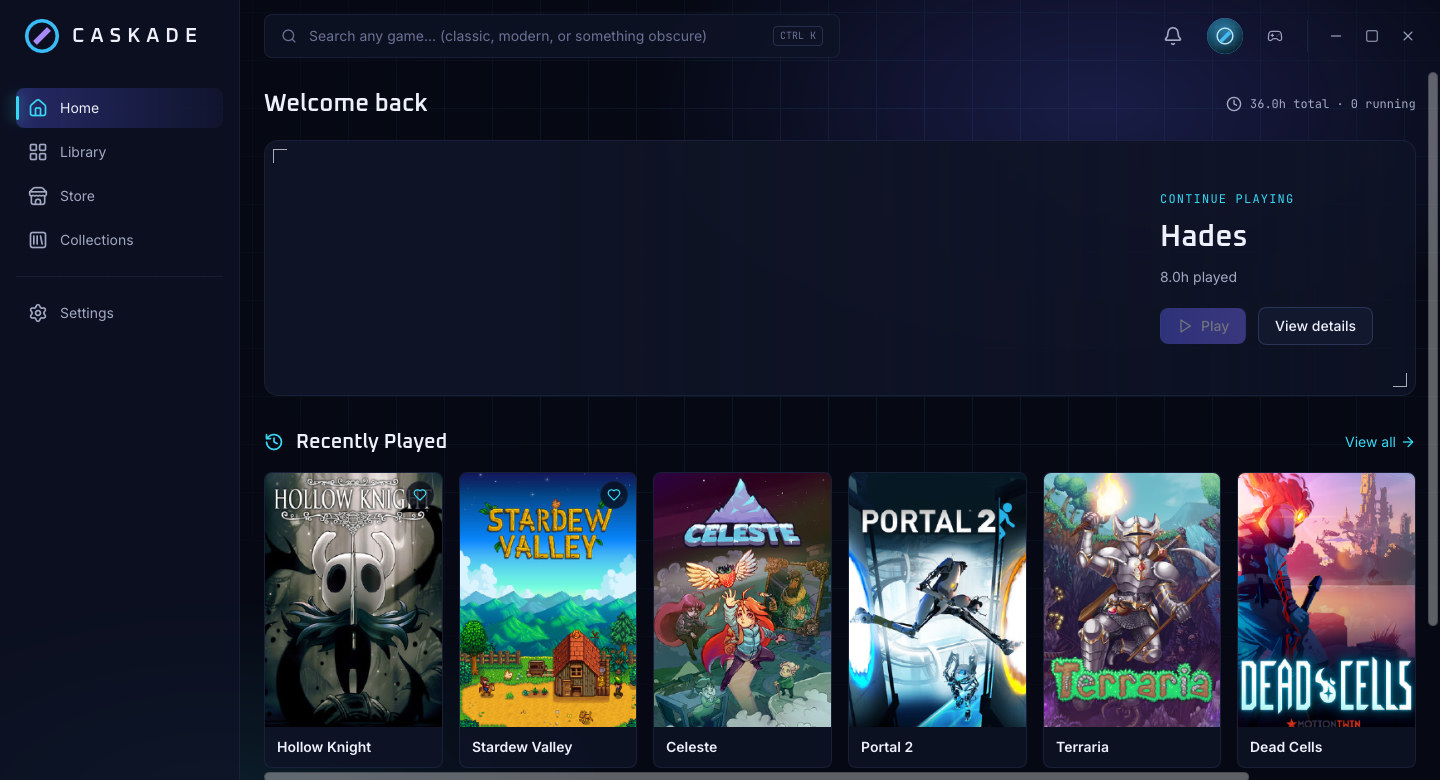
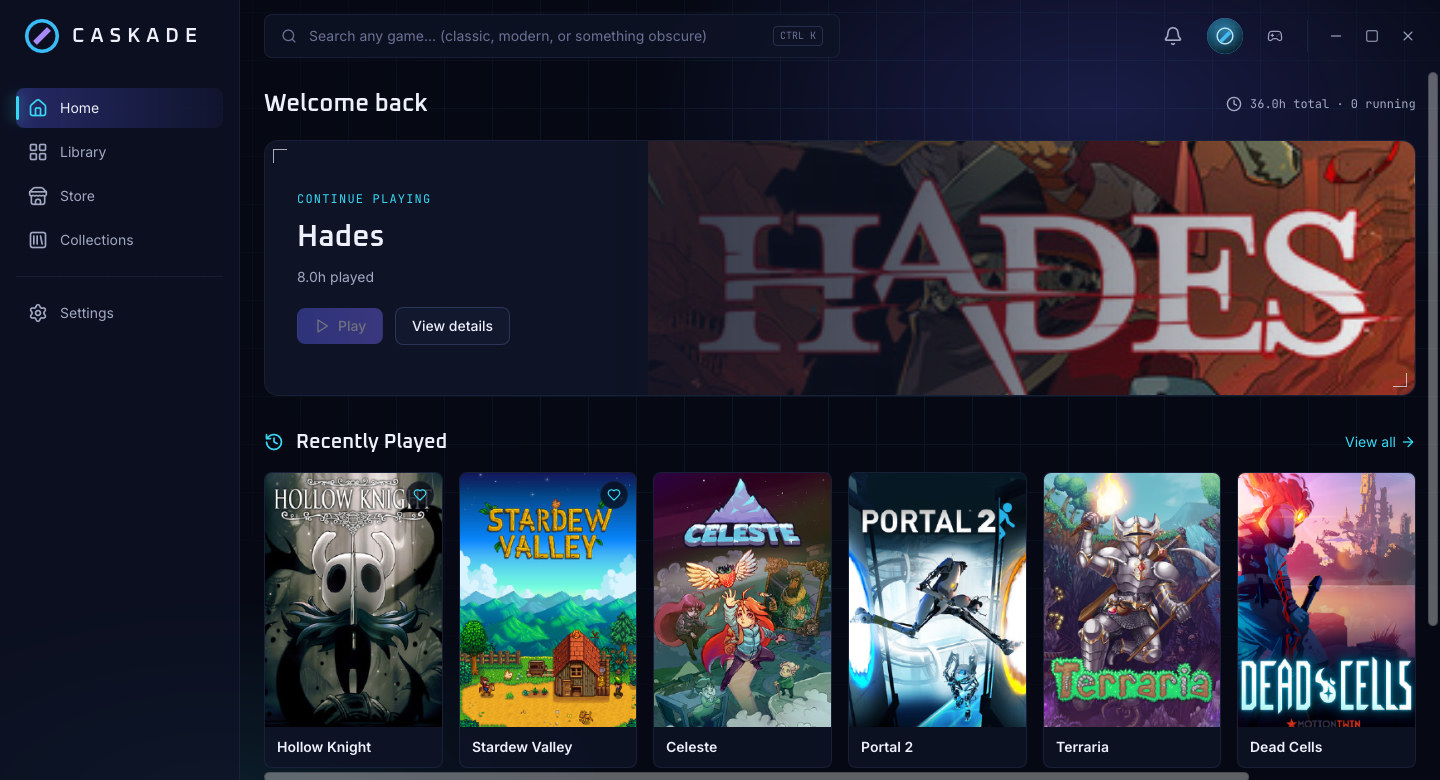
fix(native): fix Home hero art positioning, deterministic About shots, and Biome formatting (#174, #176, #178, #179)

Changed region(s): [[0.4375, 0.1538, 1.0, 0.5231], [0.1875, 0.2462, 0.3438, 0.4615], [0.4375, 0.4, 0.4688, 0.4308]]

diff --git a/apps/native/assets/app.css b/apps/native/assets/app.css
@@ -802,11 +802,11 @@
   .w-1\/3 {
     width: calc(1 / 3 * 100%);
   }
+  .w-2\/3 {
+    width: calc(2 / 3 * 100%);
+  }
   .w-2\/5 {
     width: calc(2 / 5 * 100%);
-  }
-  .w-3\/4 {
-    width: calc(3 / 4 * 100%);
   }
   .w-4 {
     width: calc(calc(0.25rem * var(--cs-density-scale)) * 4);
@@ -1773,6 +1773,9 @@
   .from-25\% {
     --tw-gradient-from-position: 25%;
   }
+  .from-30\% {
+    --tw-gradient-from-position: 30%;
+  }
   .via-accent-alt {
     --tw-gradient-via: var(--cs-color-accent-alt);
     --tw-gradient-via-stops: var(--tw-gradient-position), var(--tw-gradient-from) var(--tw-gradient-from-position), var(--tw-gradient-via) var(--tw-gradient-via-position), var(--tw-gradient-to) var(--tw-gradient-to-position);
@@ -1791,8 +1794,8 @@
     --tw-gradient-via-stops: var(--tw-gradient-position), var(--tw-gradient-from) var(--tw-gradient-from-position), var(--tw-gradient-via) var(--tw-gradient-via-position), var(--tw-gradient-to) var(--tw-gradient-to-position);
     --tw-gradient-stops: var(--tw-gradient-via-stops);
   }
-  .via-50\% {
-    --tw-gradient-via-position: 50%;
+  .via-55\% {
+    --tw-gradient-via-position: 55%;
   }
   .to-accent-alt {
     --tw-gradient-to: var(--cs-color-accent-alt);

diff --git a/apps/native/src/shots/shots.css b/apps/native/src/shots/shots.css
@@ -811,11 +811,11 @@
   .w-1\/3 {
     width: calc(1 / 3 * 100%);
   }
+  .w-2\/3 {
+    width: calc(2 / 3 * 100%);
+  }
   .w-2\/5 {
     width: calc(2 / 5 * 100%);
-  }
-  .w-3\/4 {
-    width: calc(3 / 4 * 100%);
   }
   .w-4 {
     width: calc(calc(0.25rem * var(--cs-density-scale)) * 4);
@@ -1794,6 +1794,9 @@
   .from-25\% {
     --tw-gradient-from-position: 25%;
   }
+  .from-30\% {
+    --tw-gradient-from-position: 30%;
+  }
   .via-accent-alt {
     --tw-gradient-via: var(--cs-color-accent-alt);
     --tw-gradient-via-stops: var(--tw-gradient-position), var(--tw-gradient-from) var(--tw-gradient-from-position), var(--tw-gradient-via) var(--tw-gradient-via-position), var(--tw-gradient-to) var(--tw-gradient-to-position);
@@ -1812,8 +1815,8 @@
     --tw-gradient-via-stops: var(--tw-gradient-position), var(--tw-gradient-from) var(--tw-gradient-from-position), var(--tw-gradient-via) var(--tw-gradient-via-position), var(--tw-gradient-to) var(--tw-gradient-to-position);
     --tw-gradient-stops: var(--tw-gradient-via-stops);
   }
-  .via-50\% {
-    --tw-gradient-via-position: 50%;
+  .via-55\% {
+    --tw-gradient-via-position: 55%;
   }
   .to-accent-alt {
     --tw-gradient-to: var(--cs-color-accent-alt);

diff --git a/apps/native/src/home/mod.rs b/apps/native/src/home/mod.rs
@@ -358,11 +358,15 @@ fn ContinueHero(game: GameSummary) -> Element {
                     }
                 }
             },
-            GameArt { part: "art", image: hero_art, class: "absolute inset-y-0 right-0 w-3/4" }
+            div {
+                "aria-hidden": "true",
+                class: "pointer-events-none absolute inset-y-0 right-0 w-2/3 overflow-hidden",
+                GameArt { part: "art", image: hero_art, class: "size-full" }
+            }
             div {
                 "data-part": "shade",
                 "aria-hidden": "true",
-                class: "pointer-events-none absolute inset-0 bg-linear-to-r from-surface-raised from-25% via-surface-raised/85 via-50% to-transparent",
+                class: "pointer-events-none absolute inset-0 bg-linear-to-r from-surface-raised from-30% via-surface-raised/85 via-55% to-transparent",
             }
             div { "data-part": "content", class: "relative z-10 flex max-w-2xl flex-col justify-center p-8",
                 p { "data-part": "eyebrow", class: "font-mono text-xs tracking-widest text-accent-alt uppercase",

diff --git a/apps/native/src/settings/about.rs b/apps/native/src/settings/about.rs
@@ -165,7 +165,12 @@ fn build_label() -> String {
 }
 
 /// The short git commit SHA embedded by `build.rs`, when available.
+/// Headless reference screenshots (`--shots`) use a fixed placeholder so
+/// committed golden PNGs don't churn on every commit.
 fn git_sha() -> Option<&'static str> {
+    if std::env::args().any(|arg| arg == "--shots") {
+        return Some("00000000");
+    }
     option_env!("CASKADE_GIT_SHA").filter(|sha| !sha.is_empty())
 }
 
@@ -220,6 +225,11 @@ fn AboutPage() -> Element {
         })
         .unwrap_or(false);
     let (renderer, adapter) = crate::shell::renderer_info(cpu_paint);
+    let adapter = if std::env::args().any(|arg| arg == "--shots") {
+        None
+    } else {
+        adapter
+    };
     let diagnostics = use_diagnostics();
     let toasts = try_use_context::<Toasts>();
     let mut opening_logs = use_signal(|| false);

diff --git a/CONTRIBUTING.md b/CONTRIBUTING.md
@@ -44,19 +44,19 @@ pnpm install
 
 See [AGENTS.md](AGENTS.md) and [`justfile`](justfile) for the full list of commands. On Linux, `just` recipes serialize Cargo invocations with `flock /tmp/caskade-heavy.lock`.
 
-| Task | Command |
-| --- | --- |
-| Build and run the native app | `just dev` |
-| Build without running | `cargo build` |
-| Run app Rust + JS tests | `just test-app` |
-| Run native UI & screenshot tests | `just test-native` |
-| Run native window / console E2E tests | `just test-native-window` |
-| Run installer / discovery tests | `just test-installer`, `just test-discovery` |
-| Run plugin host / theme tests | `cargo test -p caskade-plugin-host`, `cargo test -p caskade-theme` |
-| Lint Rust (matches CI) | `cargo +1.100.0 clippy --workspace --all-targets -- -D warnings` |
-| Typecheck & lint JS tooling | `pnpm typecheck` and `pnpm lint` |
-| Rebuild native stylesheet | `just native-css` |
-| Update / check translations | `just i18n` and `just i18n-check` |
+| Task                                  | Command                                                            |
+| ------------------------------------- | ------------------------------------------------------------------ |
+| Build and run the native app          | `just dev`                                                         |
+| Build without running                 | `cargo build`                                                      |
+| Run app Rust + JS tests               | `just test-app`                                                    |
+| Run native UI & screenshot tests      | `just test-native`                                                 |
+| Run native window / console E2E tests | `just test-native-window`                                          |
+| Run installer / discovery tests       | `just test-installer`, `just test-discovery`                       |
+| Run plugin host / theme tests         | `cargo test -p caskade-plugin-host`, `cargo test -p caskade-theme` |
+| Lint Rust (matches CI)                | `cargo +1.100.0 clippy --workspace --all-targets -- -D warnings`   |
+| Typecheck & lint JS tooling           | `pnpm typecheck` and `pnpm lint`                                   |
+| Rebuild native stylesheet             | `just native-css`                                                  |
+| Update / check translations           | `just i18n` and `just i18n-check`                                  |
 
 ## Rules and expectations for pull requests
 

diff --git a/CODE_OF_CONDUCT.md b/CODE_OF_CONDUCT.md
@@ -17,23 +17,23 @@ diverse, inclusive, and healthy community.
 Examples of behavior that contributes to a positive environment for our
 community include:
 
-* Demonstrating empathy and kindness toward other people
-* Being respectful of differing opinions, viewpoints, and experiences
-* Giving and gracefully accepting constructive feedback
-* Accepting responsibility and apologizing to those affected by our mistakes,
+- Demonstrating empathy and kindness toward other people
+- Being respectful of differing opinions, viewpoints, and experiences
+- Giving and gracefully accepting constructive feedback
+- Accepting responsibility and apologizing to those affected by our mistakes,
   and learning from the experience
-* Focusing on what is best not just for us as individuals, but for the overall
+- Focusing on what is best not just for us as individuals, but for the overall
   community
 
 Examples of unacceptable behavior include:
 
-* The use of sexualized language or imagery, and sexual attention or advances of
+- The use of sexualized language or imagery, and sexual attention or advances of
   any kind
-* Trolling, insulting or derogatory comments, and personal or political attacks
-* Public or private harassment
-* Publishing others' private information, such as a physical or email address,
+- Trolling, insulting or derogatory comments, and personal or political attacks
+- Public or private harassment
+- Publishing others' private information, such as a physical or email address,
   without their explicit permission
-* Other conduct which could reasonably be considered inappropriate in a
+- Other conduct which could reasonably be considered inappropriate in a
   professional setting
 
 ## Enforcement Responsibilities
